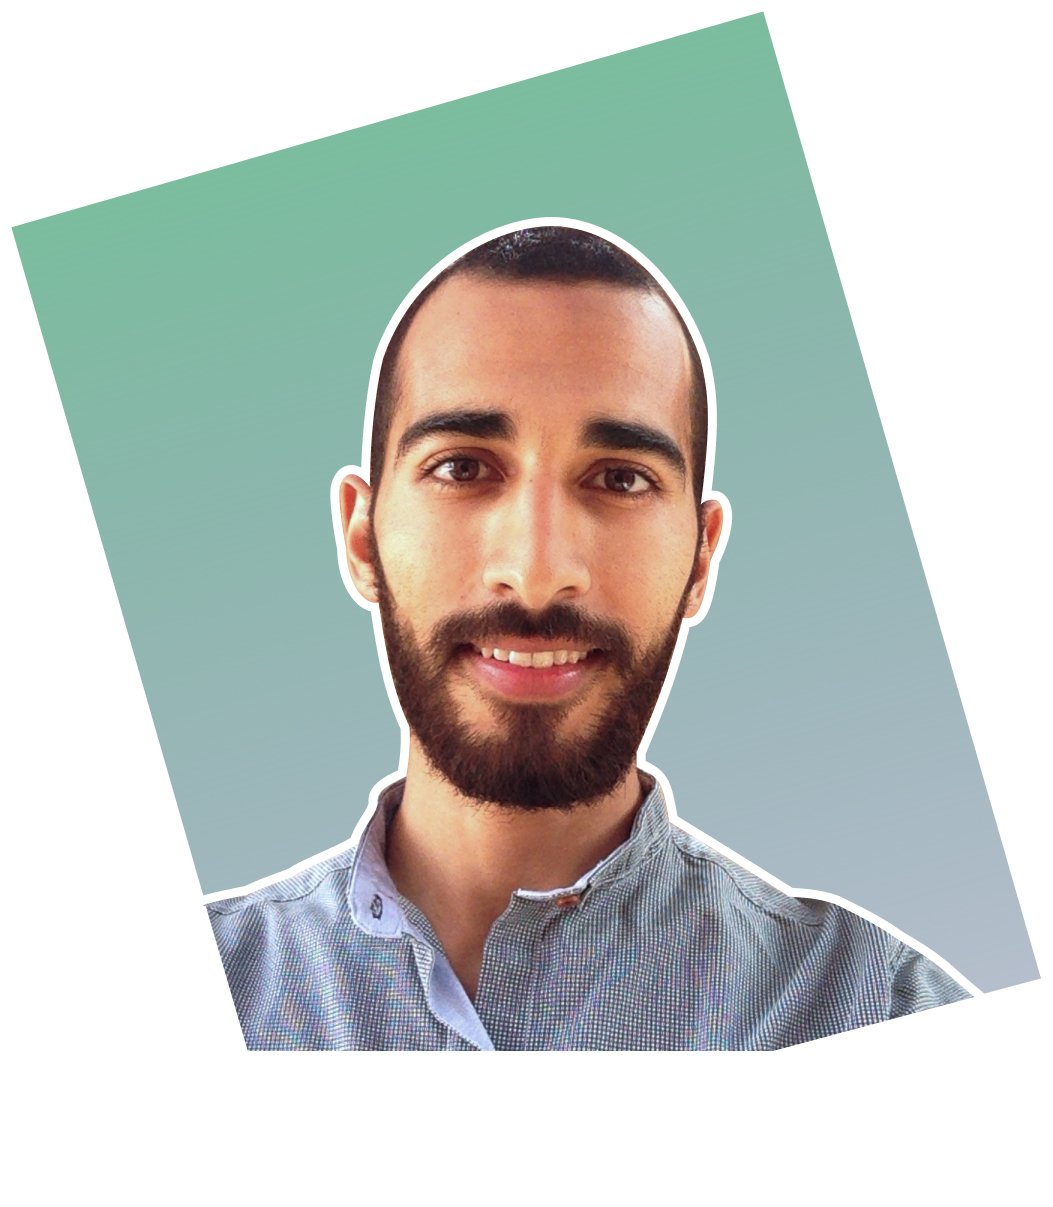
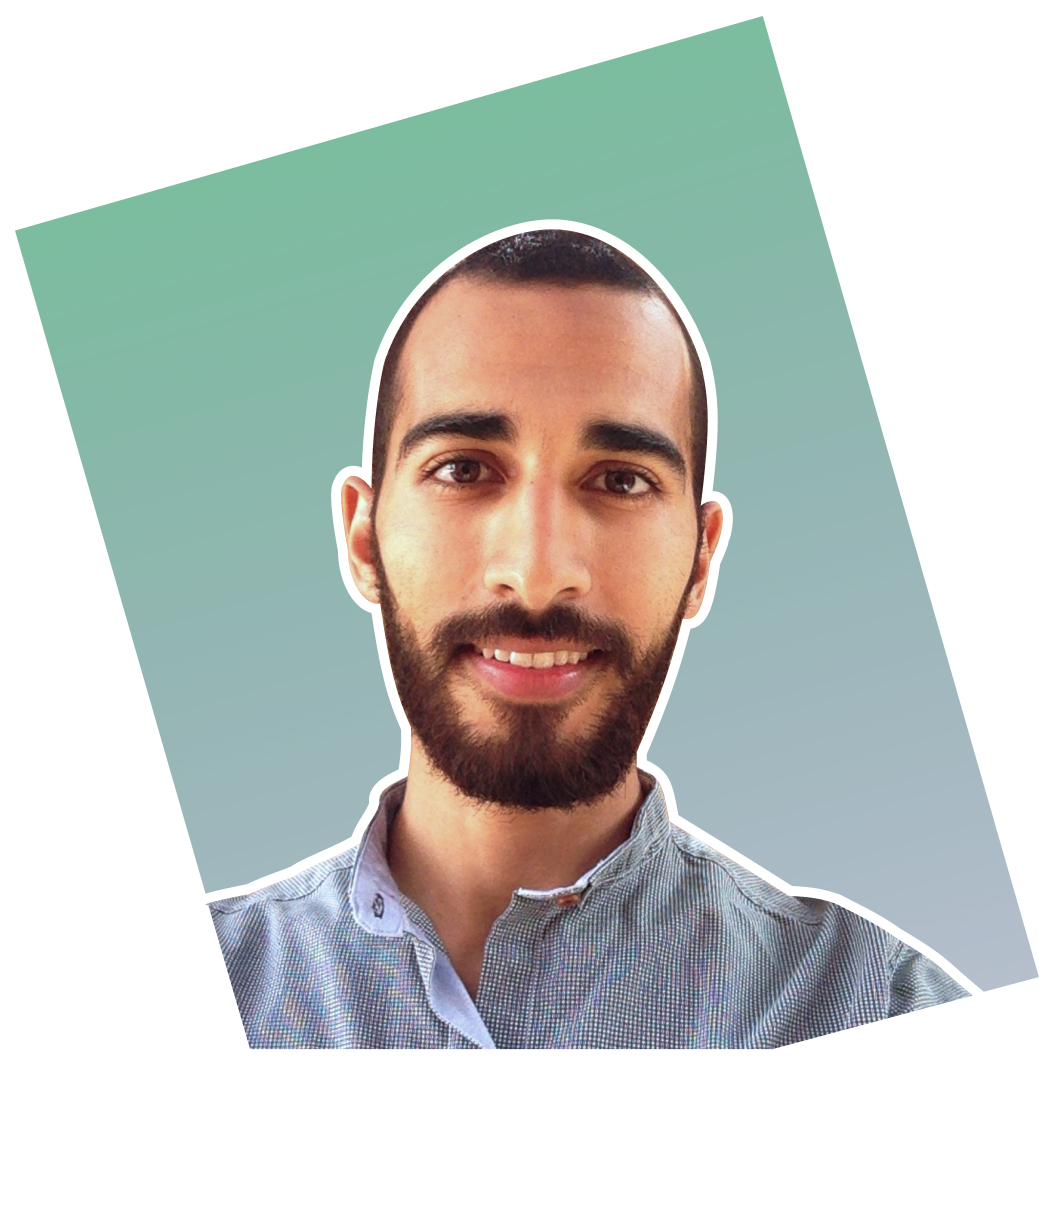
lazy load profile and show thumbnail

diff --git a/src/index.html b/src/index.html
@@ -30,7 +30,13 @@
 			</section>
 
 			<section id="about" class="page">
-				<img src="./assets/images/profile.jpg" alt="Omar Elhwarii Photo" />
+				<img
+					id="profile"
+					class="blur"
+					src="./assets/images/thumbnail.jpg"
+					alt="Omar Elhwarii Photo"
+				/>
+
 				<div>
 					<p>
 						<span>🤓</span>Self taught <strong>Full Stack</strong> developer
@@ -124,9 +130,9 @@
 			<section id="projects" class="page">
 				<ul>
 					<li>
-						<img src="./assets/images/gitup.svg" alt="Gitup" />
+						<img src="./assets/images/outline.svg" alt="Gitup" />
 						<div class="more">
-							<p class="info">React Native</p>
+							<p class="info">MERN, GraphQL</p>
 							<div class="links">
 								<a
 									class="code"
@@ -147,34 +153,9 @@
 					</li>
 
 					<li>
-						<img src="./assets/images/yan.svg" alt="Yan" />
+						<img src="./assets/images/tetris.svg" alt="Semicoding" />
 						<div class="more">
-							<p class="info">MERN, GraphQL</p>
-							<div class="links">
-								<a
-									class="code"
-									title="View code"
-									href="https://github.com/iixixv/yan"
-									target="_blank"
-								>
-									<img src="./assets/icons/code.svg" alt="<>" />
-								</a>
-								<a
-									class="visit"
-									title="Visit live project"
-									href="https://yanapp.netlify.com/"
-									target="_blank"
-								>
-									<img src="./assets/icons/arrow.svg" alt="->" />
-								</a>
-							</div>
-						</div>
-					</li>
-
-					<li>
-						<img src="./assets/images/semicoding.svg" alt="Semicoding" />
-						<div class="more">
-							<p class="info">Vue</p>
+							<p class="info">React</p>
 							<div class="links">
 								<a
 									class="code"
@@ -197,17 +178,14 @@
 					</li>
 
 					<li>
-						<img
-							src="./assets/images/singing-dentist.svg"
-							alt="Singing Dentist"
-						/>
+						<img src="./assets/images/yan.svg" alt="Yan" />
 						<div class="more">
-							<p class="info">HTML, Sass</p>
+							<p class="info">MERN, GraphQL</p>
 							<div class="links">
 								<a
 									class="code"
 									title="View code"
-									href="https://github.com/iixixv/singing-dentist"
+									href="https://github.com/iixixv/yan"
 									target="_blank"
 								>
 									<img src="./assets/icons/code.svg" alt="<>" />
@@ -215,7 +193,7 @@
 								<a
 									class="visit"
 									title="Visit live project"
-									href="https://iixixv.github.io/singing-dentist"
+									href="https://yanapp.netlify.com/"
 									target="_blank"
 								>
 									<img src="./assets/icons/arrow.svg" alt="->" />

diff --git a/src/styles/pages/_about.scss b/src/styles/pages/_about.scss
@@ -21,6 +21,14 @@
 		min-width: 250px;
 	}
 
+	.blur {
+		filter: blur(6px);
+	}
+
+	.fade {
+		animation: fade 500ms ease-in;
+	}
+
 	@media (max-width: 1050px) {
 		p {
 			width: 38vw;
@@ -35,5 +43,15 @@
 		img {
 			width: 80vw;
 		}
+	}
+}
+
+@keyframes fade {
+	0% {
+		filter: blur(3px);
+	}
+
+	100% {
+		filter: blur(0px);
 	}
 }

diff --git a/src/ts/modules/load_image.ts b/src/ts/modules/load_image.ts
@@ -1,0 +1,12 @@
+import image from '../../assets/images/profile.jpg'
+
+const profile: HTMLImageElement = document.querySelector('#profile')
+
+const downloading_image = new Image()
+
+downloading_image.onload = () => {
+	profile.classList.replace('blur', 'fade')
+	profile.src = image
+}
+
+downloading_image.src = image

diff --git a/src/ts/main.ts b/src/ts/main.ts
@@ -1,3 +1,4 @@
 import './modules/nav'
 import './modules/scroll'
-import './modules/copyMail'
+import './modules/copy_mail'
+import './modules/load_image'

diff --git a/src/assets/assets.d.ts b/src/assets/assets.d.ts
@@ -1,0 +1,1 @@
+declare module '*.jpg'
